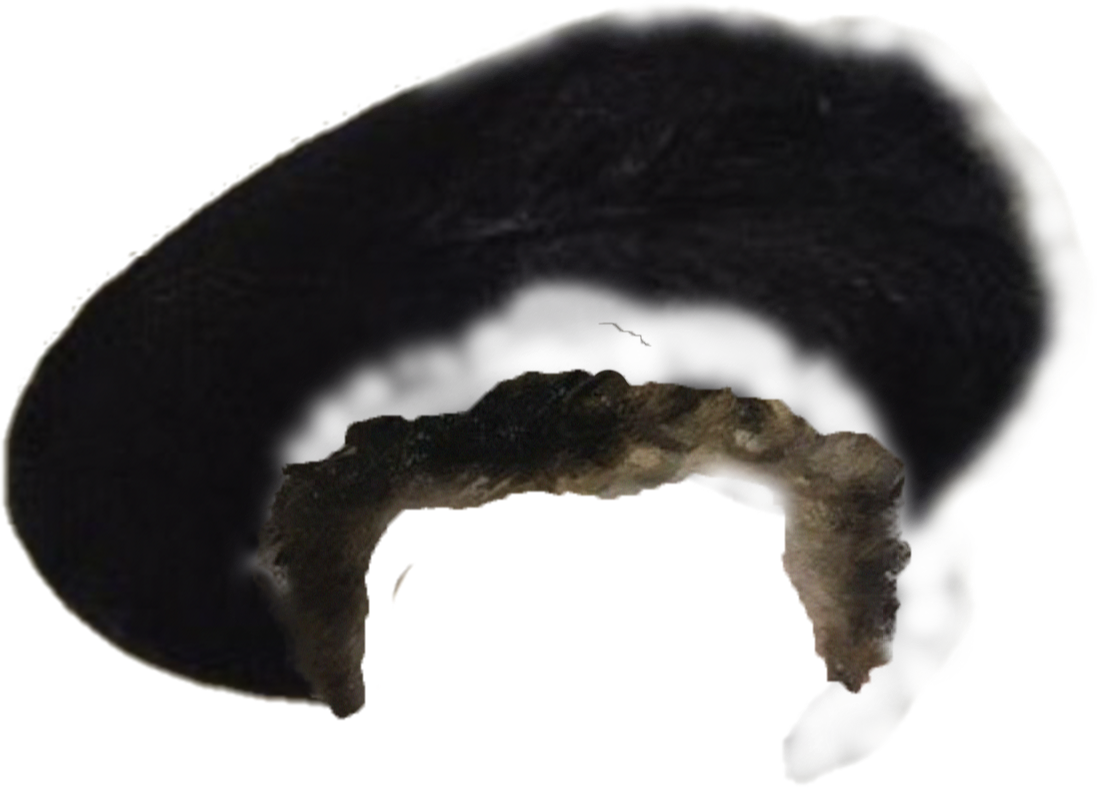
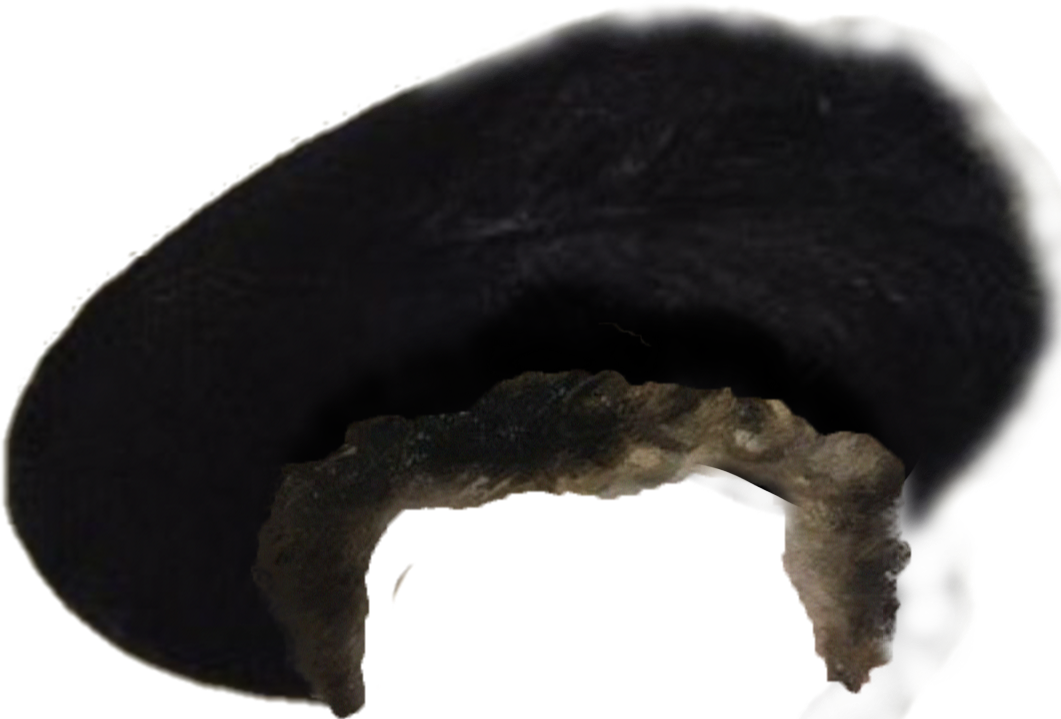
inventory style

diff --git a/src/components/Item.svelte b/src/components/Item.svelte
@@ -4,6 +4,7 @@
 	export let itemId: IItemData['id'];
 
 	export let inventory: boolean = false;
+	export let className: string = '';
 
 	export let onClick: (itemId: IItemData['id']) => void;
 
@@ -12,11 +13,23 @@
 	const { id, name, fileName } = item;
 </script>
 
-<div class={inventory ? 'inventory' : ''}>
+{#if inventory}
+
+<div class={`inventory absolute ${className}`}>
 	<img
-		class={`absolute ${fileName} item`}
+		class={` item`}
 		on:click={() => onClick(itemId)}
 		src={`/items/${fileName}.png`}
 		alt={name}
 	/>
 </div>
+	{:else}
+	<div class="">
+		<img
+				class={` absolute ${fileName} item`}
+				on:click={() => onClick(itemId)}
+				src={`/items/${fileName}.png`}
+				alt={name}
+		/>
+	</div>
+{/if}

diff --git a/src/components/Inventory.svelte b/src/components/Inventory.svelte
@@ -34,10 +34,13 @@
 		{#each paintingsData as item}
 			{#if $items.includes(item.itemId)}
 				<div class="w-20 relative">
-					<img src="/icons/fond_item.png" class="absolute"/>
-					<div class=" ">
-						<Item itemId={item.itemId} inventory={true} onClick={handleClick} />
-					</div>
+					<img src="/icons/fond_item.png" class="object-contain"/>
+						<Item
+							itemId={item.itemId}
+							inventory={true}
+							onClick={handleClick}
+							className="scale-125 top-1/2 left-1/2 -translate-x-1/2 -translate-y-1/2 origin-center"
+						/>
 				</div>
 				{:else}
 				<img src="/icons/fond_item.png" class="opacity-50 w-20"/>

diff --git a/src/app.css b/src/app.css
@@ -12,13 +12,13 @@ h6 {
 }
 
 .chapeau {
-  @apply top-[0.1rem] left-1/2 w-[51%] -translate-x-[56.5%];
+  @apply w-[85%] left-[7%]
 }
 .noeud {
   @apply top-[42%] w-[10%] left-[33%]
 }
 .testament {
-
+  @apply w-[35%] top-[14%] left-[35%]
 }
 .inventory {
   width: 40px;
